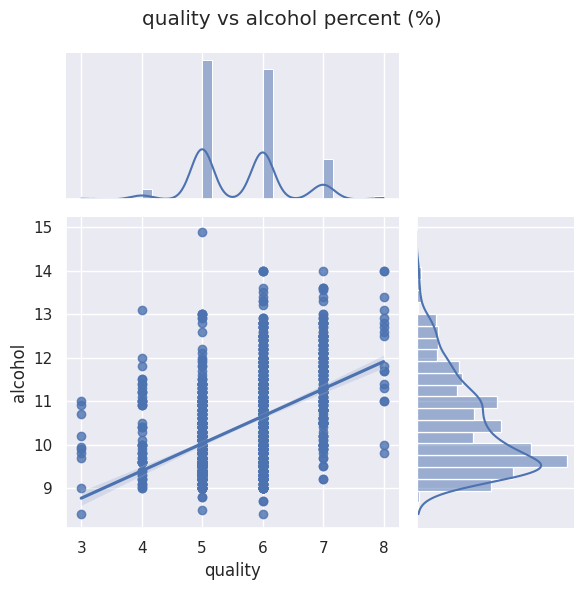
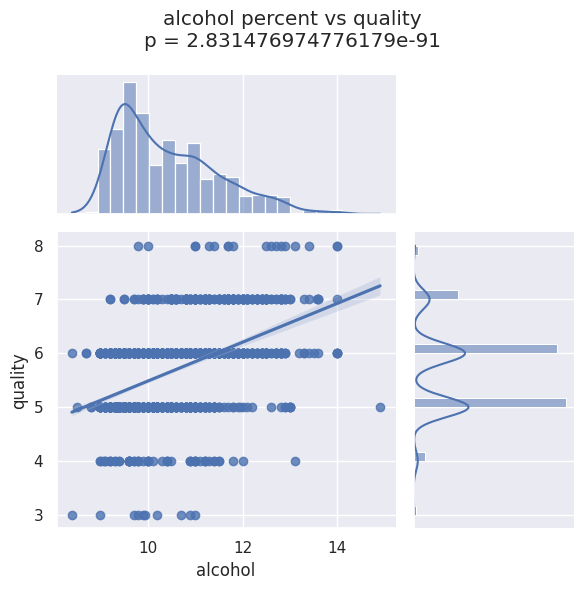
started matrix sgd

diff --git a/wine_quality.py b/wine_quality.py
@@ -6,7 +6,8 @@ import pandas as pd
 import matplotlib.pyplot as plt
 import seaborn as sns
 import time
-from algorithms import mean_squared_error, stochastic_gradient_descent, train_test_split, zscore, apply_weights_and_bias
+from scipy.stats import pearsonr, ttest_ind
+from algorithms import mean_squared_error, stochastic_gradient_descent, train_test_split, zscore, apply_weights_and_bias, standard_deviation, optimized_stochastic_gradient_descent
 
 def prepreocess():
     '''
@@ -36,10 +37,21 @@ def multiple_linear_regression(df, stochastic_sample_size):
 def graph_background_information(df):
     '''
     given data frame graph:
+        - distribution of the qualities
         - correlation plot
-        - correlation plot of alcohol vs quality
+        - correlation plot of quality vs alcohol and volatile acidity vs quality
     '''
     sns.set_theme()
+
+    # wine quality distribution
+    value_counts = [int(df['quality'].value_counts()[i]) if i in df['quality'].value_counts() else 0 for i in range(0, 11) ]
+    ax = sns.barplot(x=range(0, 11), y=value_counts)
+    ax.set_title('Distribution of wine quality entries')
+    ax.set_xlabel('wine quality (1-10)')
+    ax.set_ylabel('count')
+    fig = ax.get_figure()
+    fig.tight_layout()
+    fig.savefig('red_wine/wine_quality_distribution.png')
     
     # correlation plot
     correlations = df.corr()
@@ -55,11 +67,26 @@ def graph_background_information(df):
     fig.tight_layout()
     fig.savefig('red_wine/correlations.png')
 
+    def plot_correlation(df, x, y, xlabel = None, ylabel = None):
+        if xlabel is None:
+            xlabel = x
+        if ylabel is None:
+            ylabel = y
+
+        aq_df = df[[x, y]]
+        # get p value
+        slope = stochastic_gradient_descent(aq_df, learning_rate=.001)[0][0]
+        corr, pvalue = pearsonr(aq_df[x], aq_df[y])
+        # plot data
+        jointplot = sns.jointplot(x=x, y=y, data=aq_df, kind='reg', ratio=2)
+        jointplot.figure.suptitle(f'{xlabel} vs {ylabel}\np = {pvalue}')
+        jointplot.figure.tight_layout()
+        jointplot.savefig(f'red_wine/{x}_vs_{y}.png')
+
     # alcohol vs quality
-    jointplot = sns.jointplot(x='quality', y='alcohol', data=df[['quality', 'alcohol']], kind='reg', ratio=2)
-    jointplot.figure.suptitle('quality vs alcohol percent (%)')
-    jointplot.figure.tight_layout()
-    jointplot.savefig('red_wine/alcohol_vs_quality.png')
+    plot_correlation(df, 'alcohol', 'quality', xlabel='alcohol percent')
+    # volatile acidity vs quality
+    plot_correlation(df, 'volatile acidity', 'quality')
 
 
 def graph_trials(results, name, cost=0, time=0):
@@ -82,13 +109,30 @@ def main():
     mini_batch_results, cost_mini = multiple_linear_regression(df, .1)
     mini_batch_time = time.time() - start
 
-    # start = time.time()
-    # batch_results, cost_batch = multiple_linear_regression(df, 1.0)
-    # batch_time = time.time() - start
+    start = time.time()
+    batch_results, cost_batch = multiple_linear_regression(df, 1.0)
+    batch_time = time.time() - start
 
     graph_trials(mini_batch_results, f'Mini-batch Gradient Descent', cost = round(cost_mini, 2), time = round(mini_batch_time, 2))
-    # graph_trials(batch_results, f'Batch Gradient Descent', cost = round(cost_batch, 2), time = round(batch_time, 2))
+    graph_trials(batch_results, f'Batch Gradient Descent', cost = round(cost_batch, 2), time = round(batch_time, 2))
+
+
+def test():
+    df = prepreocess()
+
+    train, test = train_test_split(df)
+    loss_per_epoch = []
+
+    weights, bias = [0 for i in range(len(df.columns) - 1)], 0.0
+    weights, bias = optimized_stochastic_gradient_descent(train, lr=.0001, weights=weights, bias=bias, epoches=100, min_step_size=0.0001)
+
+    print(weights, bias)
+    test_results = mean_squared_error(weights=weights, bias=bias, df=test)
+    print('testing results (mse):', test_results)
+
+
 
 
 if __name__ == '__main__':
-    main()
+    test()
+    # main()

diff --git a/algorithms.py b/algorithms.py
@@ -6,6 +6,12 @@ import matplotlib.pyplot as plt
 def zscore(mean, std_dev, x):
     return (mean - x) / std_dev
 
+def standard_deviation(x):
+    n = len(x)
+    mean = sum(x) / n
+
+    dif = sum([i - mean for i in x])**2
+    return np.sqrt(dif / n)
 
 def apply_weights_and_bias(inputs, weights, bias):
     '''
@@ -77,6 +83,8 @@ def stochastic_gradient_descent(_df, learning_rate=.01, min_step_size=.001, epoc
     '''
     apply stochastic gradient decesnt algorithm given hyperparameters:
     learning rate, epoch count, starting weights, startign bias and stochastic gradient mini batch size
+
+    return (weights, bias) as a tuple of all given weights and biases
     '''
 
     step_num = 0
@@ -106,3 +114,57 @@ def stochastic_gradient_descent(_df, learning_rate=.01, min_step_size=.001, epoc
         if step_num >= epoches or can_stop: # do while loop
             break
     return (weights, bias)
+
+def matrix_mean_squared_error(theta, m):
+    return 0
+
+def optimized_stochastic_gradient_descent(df, lr=.01, min_step_size=.001, epoches=100, weights=[1], bias=0, stochastic_sample_size=.1, displayProgress: bool=True):
+    '''
+    optimized stochastic gradient descent method by using numpy and linear algebra
+    
+    :param df: dataframe of all features and label should be last column
+    :param lr: learning rate
+    :param min_step_size: if step size is less than this end program
+    :param epoches: how many repititions of gradient descent 
+    :param weights: the starting weights
+    :param bias: the starting bias
+    :param stochastic_sample_size: percent of each sample group for each epoch
+    '''
+
+    # matrix = np.matrix([[df.iloc[i, j] for j in range(len(df.columns))] for name in df.columns])
+    matrix = np.matrix([list(df[name]) for name in df.columns]).T
+    theta = np.append(np.array(weights), bias)
+    print(theta)
+    print("the above should be one list of weights and bias at end of list")
+    epoch_number = 0
+    while epoch_number < epoches:
+        # sample (according to stochastic sample size) the dataframe
+        _matrix = matrix[random.sample(range(0, len(df)), int(len(df) * stochastic_sample_size))]
+
+        
+        # TODO make these next lines work correct
+        # establish features (x) and labels (y)
+        x = _matrix[0:len(_matrix) - 2]
+        x = np.column_stack((_matrix, np.ones(len(_matrix))))
+        y = _matrix[len(_matrix) - 1]
+        print(x)
+        print("the above should be matrix")
+        print(y)
+        print("the above should be just one vector")
+
+        # get the step direction vector (direction to go) and the step vector with correct magnitude
+        m = len(df)
+        step_direction_vector = (2/m) * x.T.dot(x.dot(theta) - y)
+        step_vector = step_direction_vector * lr
+        if displayProgress:
+            loss = matrix_mean_squared_error(theta, _matrix)
+            print(f'Epoch [{epoch_number}/{epoches}],   loss: {loss}')
+
+        if any(step_vector < min_step_size):
+            break
+
+        # change the weights (theta)
+        theta -= step_vector
+    
+    return theta
+

diff --git a/README.md b/README.md
@@ -25,14 +25,14 @@ All of the results are plotted with matplot lib.
 The loss for each epoch gets consistantly lower each time with a negative acceleration. This is due to the nature of
 the batch gradient descent algorithm because it garuentees that the loss will go down each time. Because batch
 gradient descent calculates the gradient of the weights by using the mean of all derivitives (mean gradient). While you
-can gaurentee a reduction in the loss, it takes a very long time per epoch.
+can guarentee a reduction in the loss, it takes a very long time per epoch.
 
 ### Mini-batch Gradient Descent
 
 ![mini-batch-gradient-descent](./results/Mini-batch%20Gradient%20Descent%20-%20cost:0.69%20-%20time:15.34%20seconds.png)
 
 #### Analysis of results
-The loss for each epoch on average, goes down. Unlike batch gradient descent which gaurentees there will be a decrease in
+The loss for each epoch on average, goes down. Unlike batch gradient descent which guagrentees there will be a decrease in
 the loss, mini-batch gradient descent "eventually" converges to a gradientnt. This is because of the stochastic nature of
 mini-batch gradient descent which randomly samples some of the training data for testing. Disadvantages of this is that it
 is possible to converge in unlikely patterns and converging patterns are inconsistant. A major advantage is that it runs
